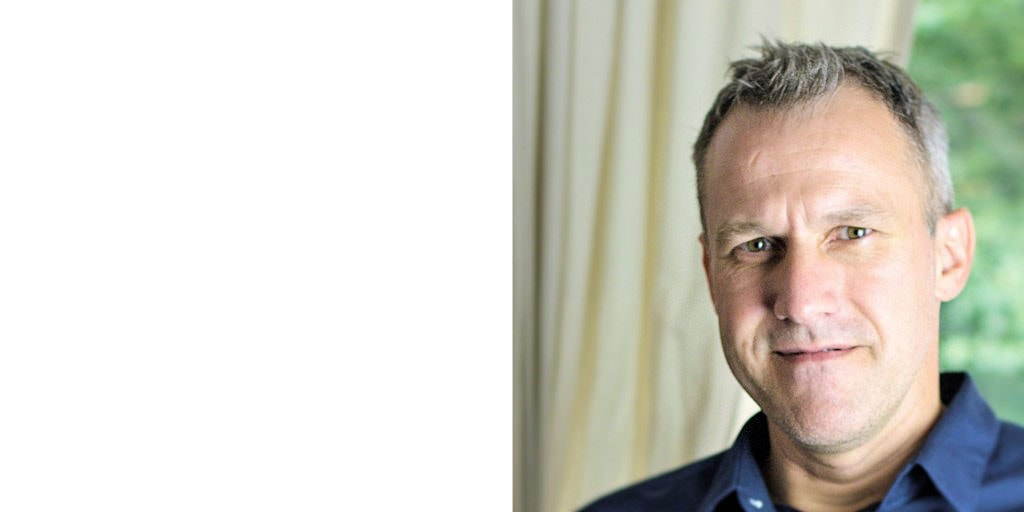
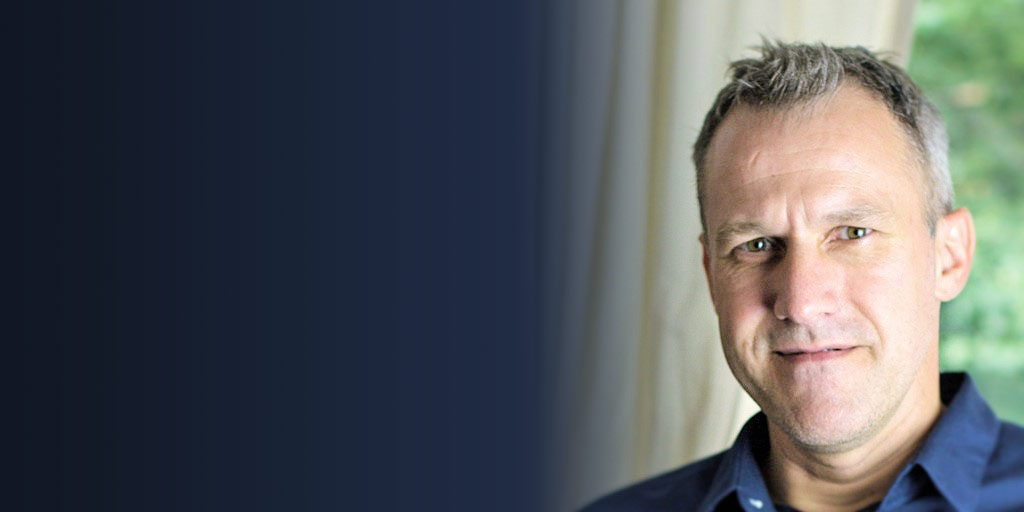
New image for Oliver Schwarz.

diff --git a/lib/views/pages/speakers.html b/lib/views/pages/speakers.html
@@ -30,7 +30,7 @@
     </div>
 </figure>
 
-<figure id="oliverschwarz" class="text-image-overlay color-inverse align-left mobile-contrast text-left">
+<figure id="oliverschwarz" class="text-image-overlay color align-left mobile-contrast text-left">
     <img class="background-image" src="/img/speaker/oliverschwarz.jpg" alt="" />
 
     <div class="content">
